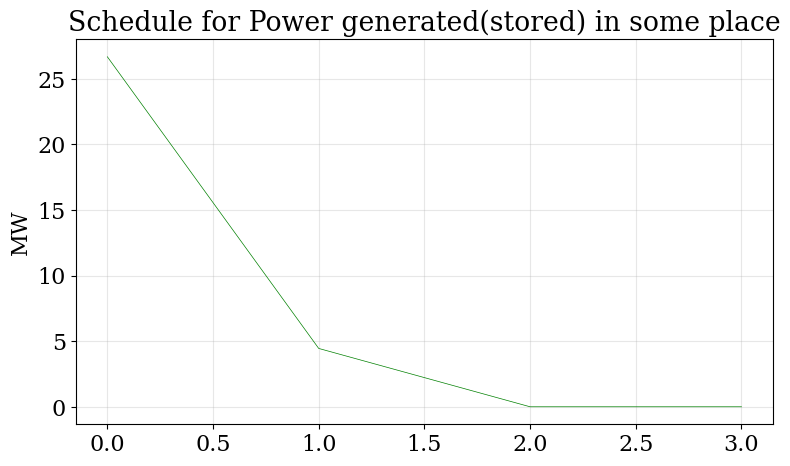
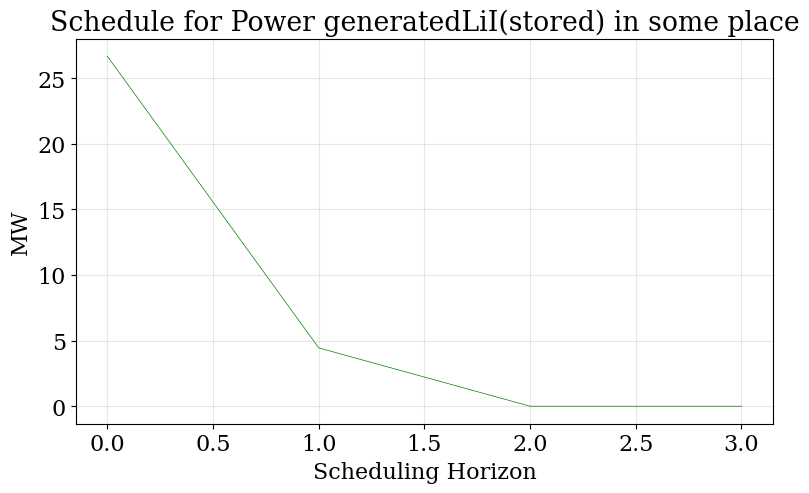
new images in small example

diff --git a/docs/small_example.rst b/docs/small_example.rst
@@ -162,7 +162,7 @@ In the example below, the production schedule for the windfarm (WF), and the inv
 .. code-block:: python
 
     plot.schedule(results= results, y_axis= 'P', component= 'WF', location = 'place', fig_size= (9,5), color = 'blue')
-    plot.schedule(results= results, y_axis= 'Inv', component= 'Power_stored', location = 'place', fig_size= (9,5), color = 'green')
+    plot.schedule(results= results, y_axis= 'Inv', component= 'LiI_Power_stored', location = 'place', fig_size= (9,5), color = 'green')
 
 .. image:: sch_wf.png 
 
